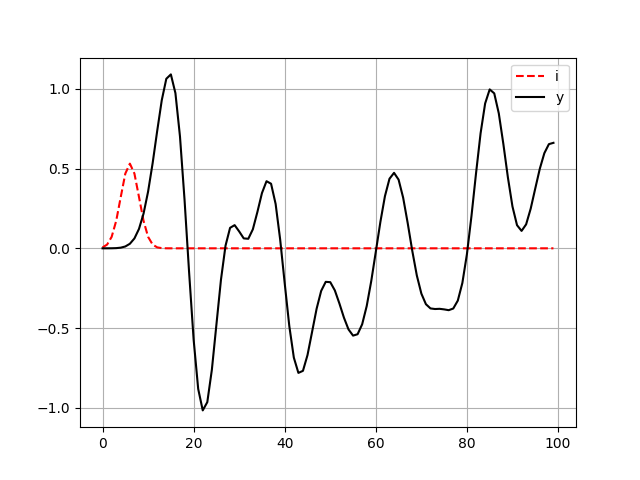
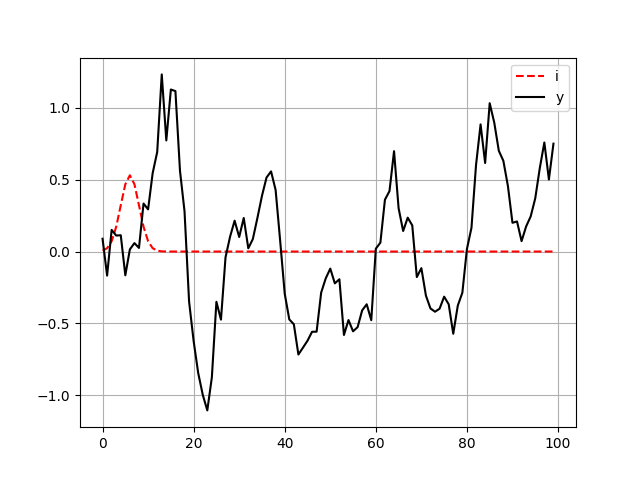
noise

diff --git a/main.py b/main.py
@@ -23,7 +23,7 @@ SIGNAL = generate_measurements(SIGNAL, MODEL)
 # Estimation
 ESTIMATION_RESULTS = estimation(MODEL, SIGNAL)
 
-
+# =================================================== MO ===================================================
 # Problem
 PROBLEM = ImageReconstructionProblem(MODEL, PROBE, SIGNAL)
 
@@ -45,13 +45,13 @@ plt.ylabel('f2')
 #plt.title('Pareto Front')
 plt.savefig('pareto_front.png')
 plt.close()
-
+# =================================================== MO ===================================================
 
 # Primera figura
 plt.figure()
 plt.plot(PROBE.mu, 'b-', linewidth=4, label='True µ')
 plt.plot(mu_est_nsga2, 'g-', label='Estimated µ by NSGA-II')
-plt.plot(ESTIMATION_RESULTS.mu, 'r--', label='Estimated µ')
+#plt.plot(ESTIMATION_RESULTS.mu, 'r--', label='Estimated µ')
 plt.legend()
 plt.savefig('true_and_estimated_mu.png')
 plt.close()  # Cierra la primera figura

diff --git a/SSM/Generate_Measurements.py b/SSM/Generate_Measurements.py
@@ -17,7 +17,10 @@ def generate_measurements(signal: SimpleNamespace, model: SimpleNamespace) -> Si
         y_without_meas_noise[iter+1] = model.c.T @ x
         y_without_meas_and_proc_noise[iter+1] = model.c.T @ x_without_proc_noise
     
-    signal.y = y
+    #noise = np.random.normal(0, np.sqrt(model.sigma_w2), model.Ny)
+    noise = 1e-1 * np.random.randn(model.Ny, 1)
+
+    signal.y = y + noise
     signal.y_without_meas_noise = y_without_meas_noise
     signal.y_without_meas_and_proc_noise = y_without_meas_and_proc_noise
 
